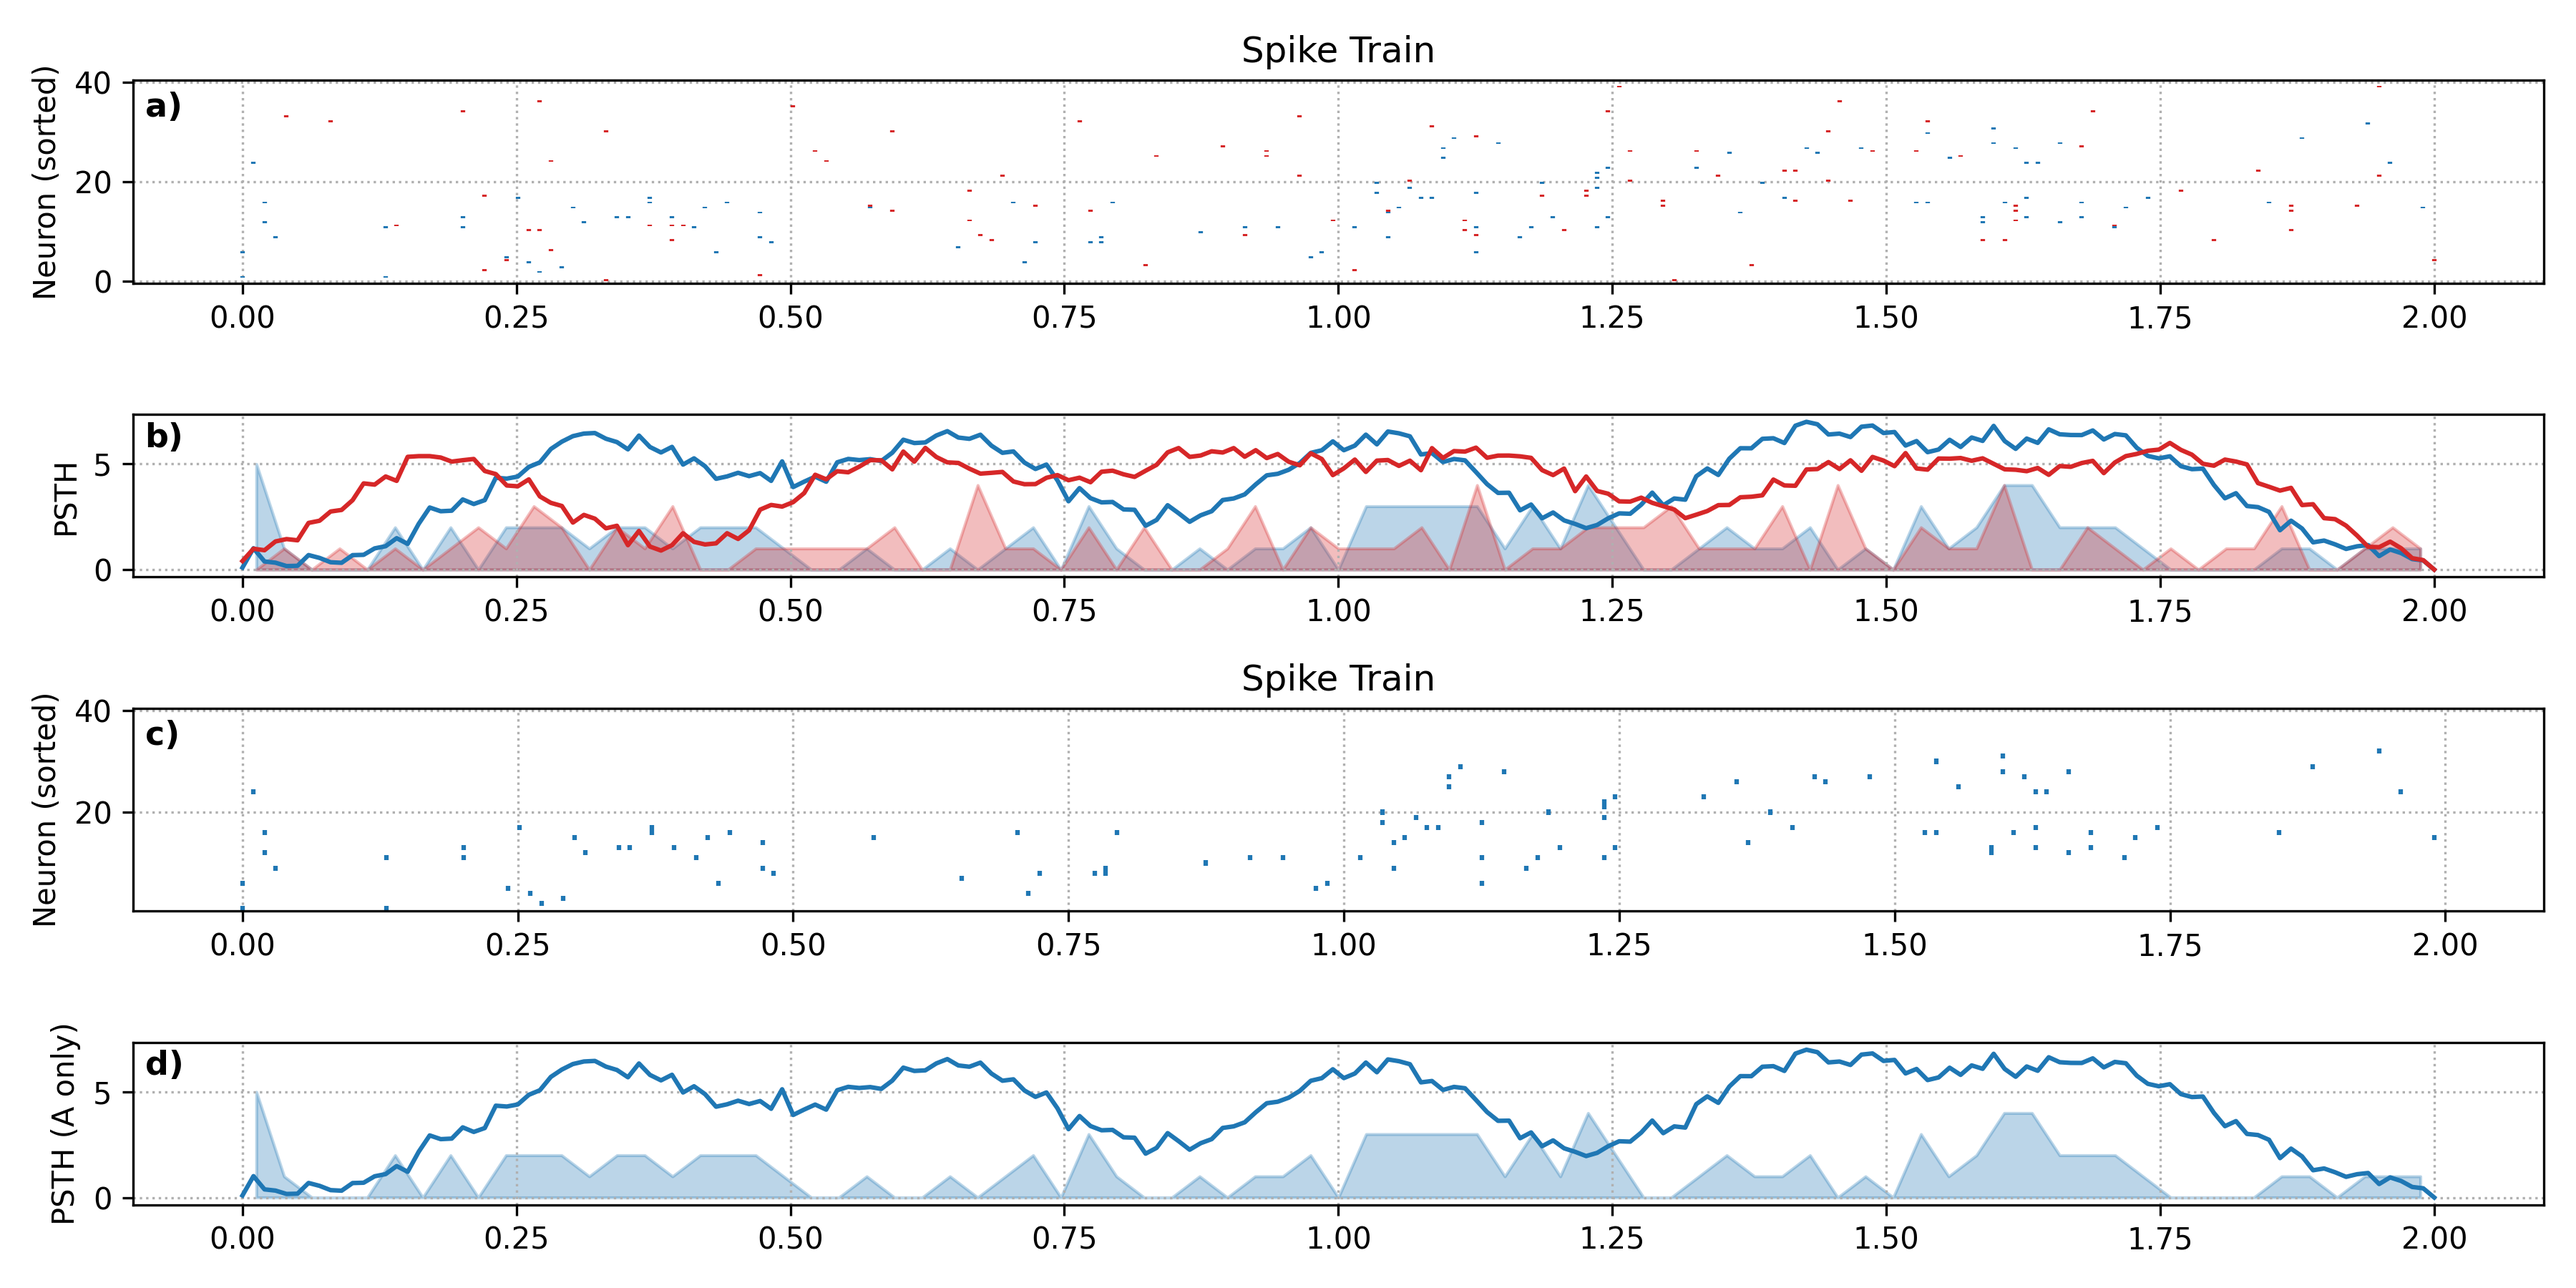
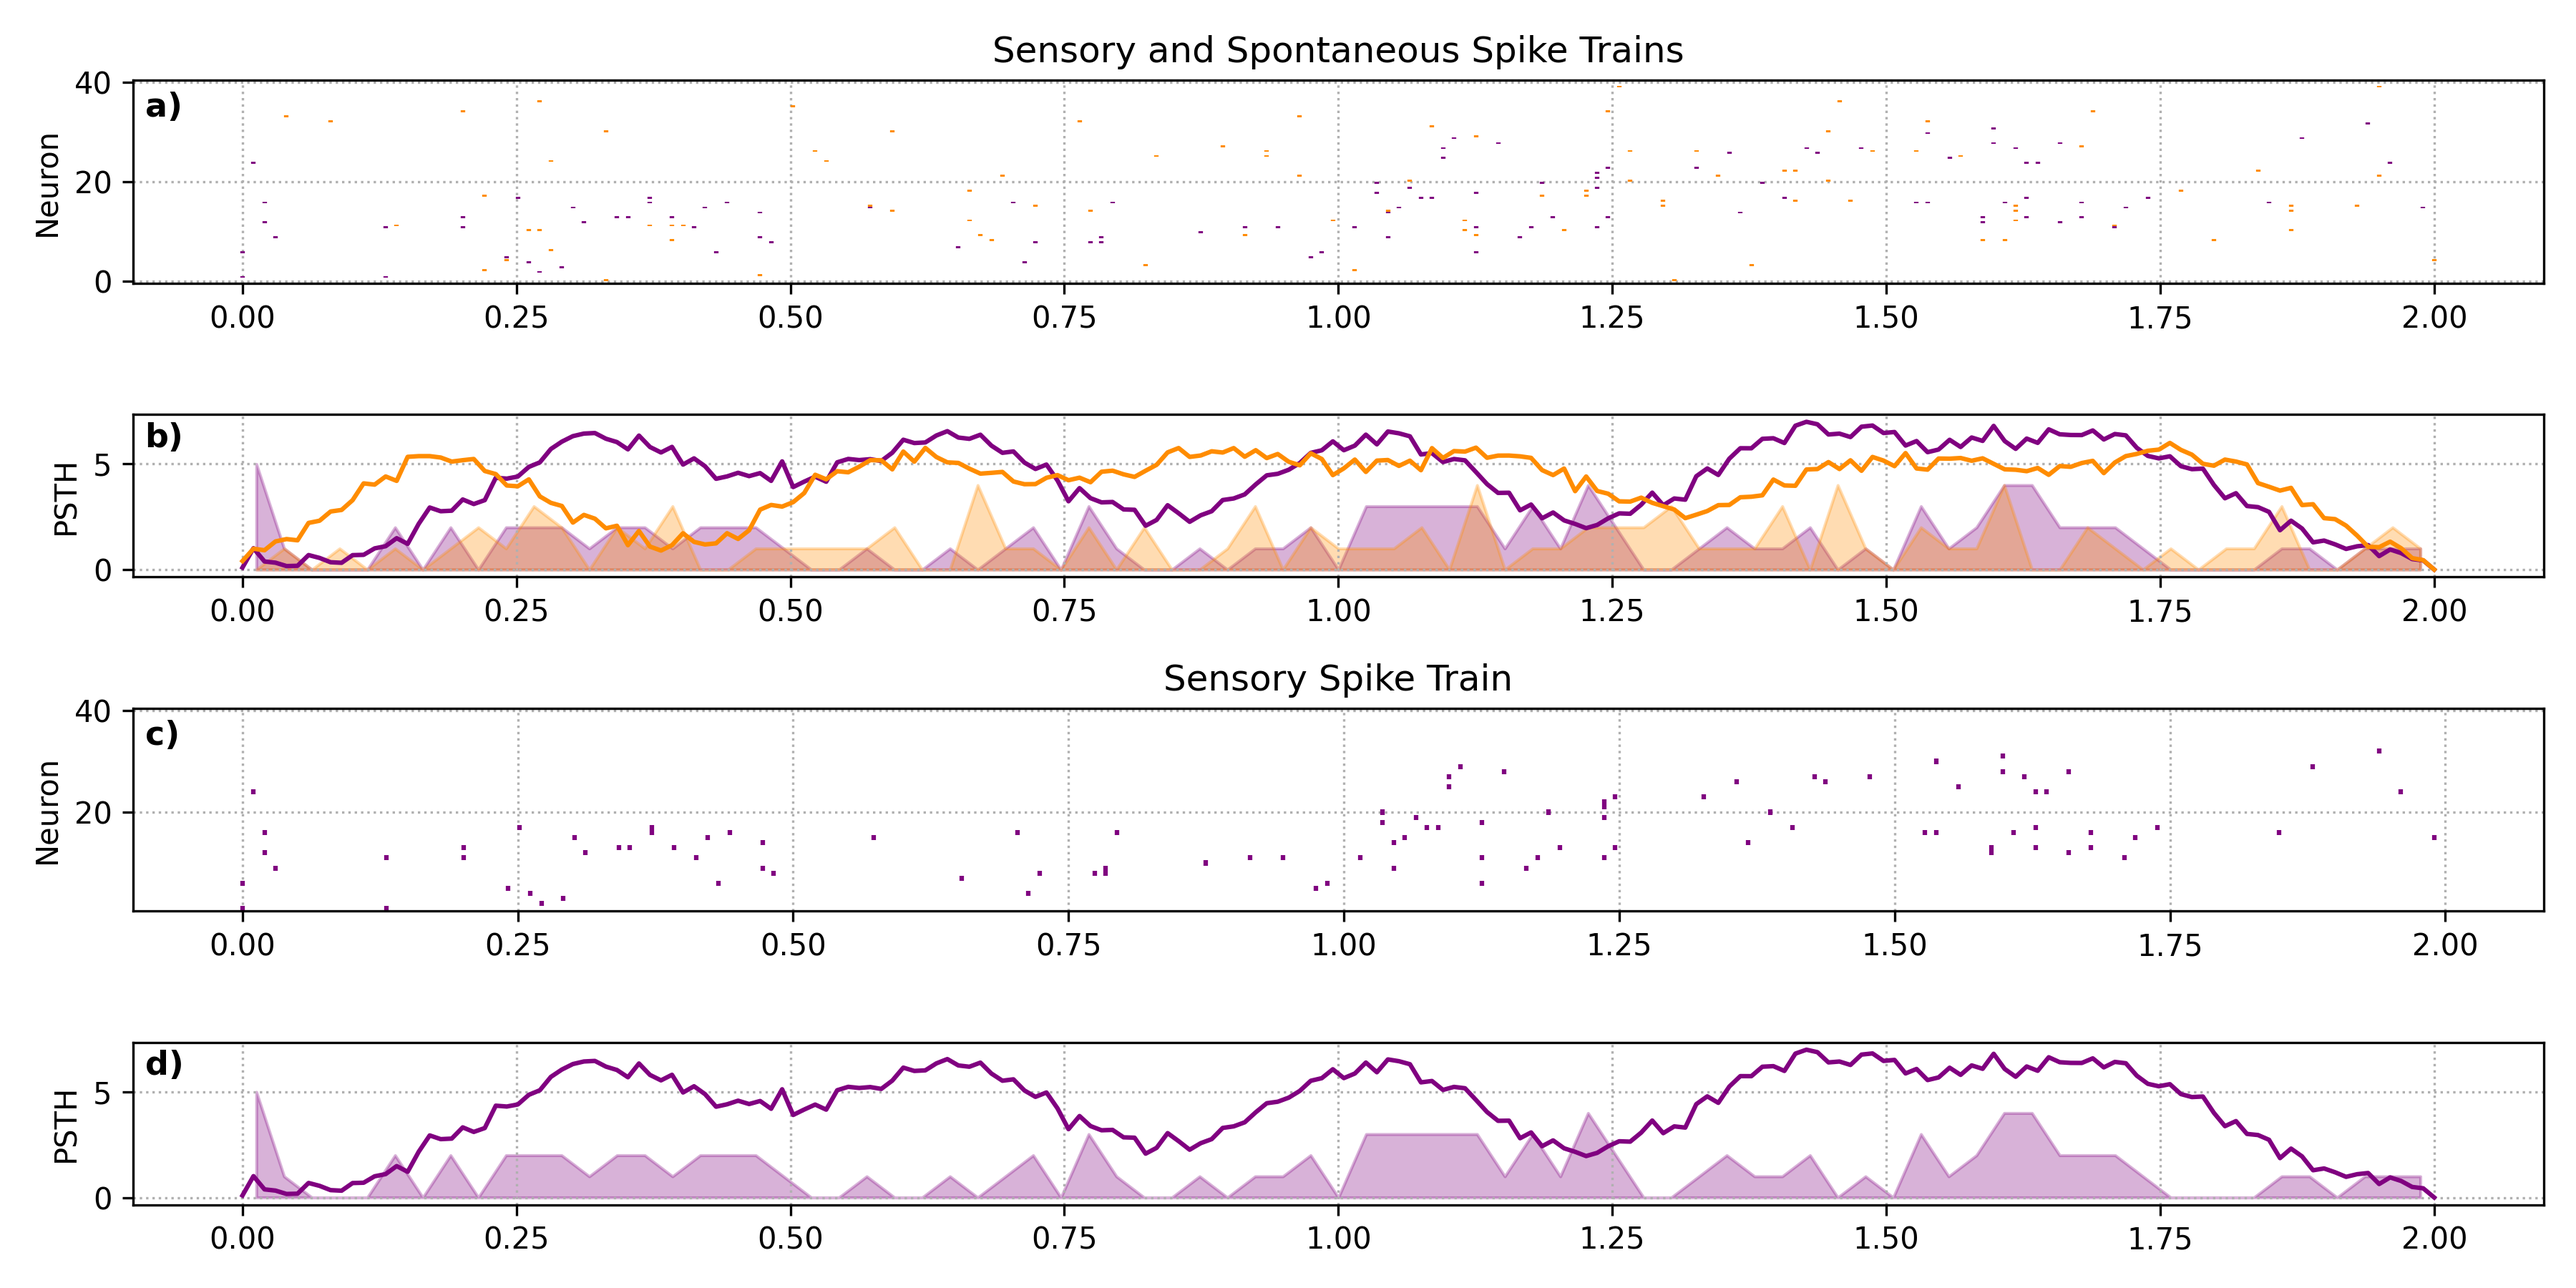
Update Plots

diff --git a/src/plot_domains.py b/src/plot_domains.py
@@ -1,68 +1,68 @@
 import numpy as np
 import matplotlib.pyplot as plt
 
-# --- Helper functions ---
+# -------- Generate biologically-inspired tuning curves --------
 
-def gaussian_tuning(x, mu, sigma=15, height=1.0):
-    """Gaussian tuning curve."""
-    return height * np.exp(-0.5 * ((x - mu) / sigma) ** 2)
+x = np.linspace(-3, 3, 400)
 
-def poisson_spikes(rate, T=1000, dt=1):
-    """Simulate Poisson spike trains for given rate (Hz)."""
-    n_steps = int(T / dt)
-    p_spike = rate * dt / 1000.0  # rate is in Hz, T in ms
-    return np.random.rand(n_steps) < p_spike
+# Gaussian tuning curve (neural selectivity peak)
+def gaussian(x, mu, sigma):
+    return np.exp(-0.5 * ((x - mu) / sigma)**2)
 
-# --- Setup stimulus space ---
-x = np.linspace(0, 180, 200)  # e.g. orientation in degrees
+tuning_curve = gaussian(x, 0, 0.8)
+enum = iter("abcdefg")
+# Mexican hat (difference-of-Gaussians: excitatory center, inhibitory surround)
+def mexican_hat(x, sigma_exc=0.5, sigma_inh=1.5, w_exc=1.0, w_inh=0.6):
+    exc = w_exc * np.exp(-0.5 * (x / sigma_exc)**2)
+    inh = w_inh * np.exp(-0.5 * (x / sigma_inh)**2)
+    return exc - inh
 
-# 1. Classical neuroscience: population of neurons with tuning curves
-neurons_pref = np.linspace(20, 160, 5)
-pop_curves = [gaussian_tuning(x, mu, sigma=20) for mu in neurons_pref]
+mex_curve = mexican_hat(x)
 
-# 2. Dynamic Field Theory: one continuous activation bump (represents population)
-dft_field = gaussian_tuning(x, 90, sigma=25, height=1.2)
+# Add slight noise for biological realism
+tuning_curve_noisy = tuning_curve + np.random.normal(0, 0.02, len(x))
+mex_curve_noisy = mex_curve + np.random.normal(0, 0.02, len(x))
 
-# 3. Deep learning population code (output layer representation)
-dl_outputs = [gaussian_tuning(x, mu, sigma=10, height=1.0) for mu in [60, 90, 120]]
-dl_code = np.sum(dl_outputs, axis=0)  # combined population output
+# -------- Plot --------
 
-# 4. Spiking Neural Networks: tuning via spike trains
-rates = [gaussian_tuning(90, mu, sigma=20, height=30) for mu in neurons_pref]
-spike_trains = [poisson_spikes(rate, T=500) for rate in rates]
-firing_rates = [np.mean(train) * 1000 for train in spike_trains]  # Hz
+fig, axes = plt.subplots(1, 2, figsize=(12, 4))
 
-# --- Plotting ---
-fig, axs = plt.subplots(2, 2, figsize=(12, 8))
+# Left: Gaussian tuning curve
+axes[0].plot(x, tuning_curve_noisy, color="orange", linewidth=2)
+axes[0].set_title("Gaussian Tuning Curve")
+axes[0].set_xlabel("Stimulus feature")
+axes[0].set_ylabel("Firing rate (a.u.)")
+axes[0].grid(True, linestyle=':', alpha=0.5)
+axes[0].text(
+    0.015,        # a little left of the axes
+    0.94,               # same vertical height as the title
+    f"{next(enum)})",
+    fontsize=11, fontweight="bold",
+    transform=axes[0].transAxes
+)
 
-# Classical neuroscience
-for curve, mu in zip(pop_curves, neurons_pref):
-    axs[0, 0].plot(x, curve, label=f"Neuron {int(mu)}°")
-axs[0, 0].set_title("a) Gaussian Tuning Curve")
-axs[0, 0].set_xlabel("Stimulus (orientation, °)")
-axs[0, 0].set_ylabel("Activity over time")
-axs[0, 0].legend()
-
-# Dynamic field theory
-axs[0, 1].plot(x, dft_field, color="darkred", lw=2)
-axs[0, 1].set_title("b) Field Activity")
-axs[0, 1].set_xlabel("Feature space (orientation, °)")
-axs[0, 1].set_ylabel("Activation")
-
-# Deep learning population code
-for out in dl_outputs:
-    axs[1, 0].plot(x, out, linestyle="--", alpha=0.7)
-axs[1, 0].plot(x, dl_code, color="blue", lw=2, label="Population code (sum)")
-axs[1, 0].set_title("c) Output Population Code")
-axs[1, 0].set_xlabel("Output dimension")
-axs[1, 0].set_ylabel("Activation")
-axs[1, 0].legend()
-
-# Spiking neural networks
-axs[1, 1].bar([f"{int(mu)}°" for mu in neurons_pref], firing_rates, color="gray")
-axs[1, 1].set_title("d) Estimated Tuning Curve")
-axs[1, 1].set_ylabel("Continuous Activity")
+# Right: Mexican Hat (center-surround receptive field)
+axes[1].plot(x, mex_curve_noisy, color="purple", linewidth=2)
+axes[1].axhline(0, color="black", linewidth=0.5)
+axes[1].set_title("Mexican Hat")
+axes[1].set_xlabel("Stimulus feature")
+axes[1].grid(True, linestyle=':', alpha=0.5)
+axes[1].text(
+    0.015,        # a little left of the axes
+    0.94,                # same vertical height as the title
+    f"{next(enum)})",
+    fontsize=11, fontweight="bold",
+    transform=axes[1].transAxes
+)
 
 plt.tight_layout()
-plt.savefig("population_code_domains.png")
-plt.close()
+
+fname = "population_code_domains.png"
+plt.savefig(fname, dpi=300)
+#
+
+
+
+# plt.tight_layout()
+# plt.savefig("population_code_domains.png")
+# plt.close()

diff --git a/src/plot_tuning.py b/src/plot_tuning.py
@@ -87,14 +87,27 @@ gs = fig.add_gridspec(4, 2, height_ratios=[1.25,1, 1.25,1])
 # ax3 = fig.add_subplot(gs[-1, 0])
 # ax4 = fig.add_subplot(gs[-1:, -1])
 
+# --------------------- Plotting ----------------------------
+        # "linear": {
+        #     "1.0": "darkorange",
+        #     "0.5": "#FFA447",
+        #     "0.0": "#FFE0B2",
+        # },
+        # "population": {
+        #     "0.0": "#E0AAFF",
+        #     "0.5": "#9A58D0",
+        #     "1.0": "purple",
+a_color = "purple"
+b_color = "darkorange"
+
 # Raster A+B
 ax_raster_all = fig.add_subplot(gs[0, :])
-ax_raster_all.set_title("Spike Train")
+ax_raster_all.set_title("Sensory and Spontaneous Spike Trains")
 for row, idx in enumerate(sorted_idx):
-    ax_raster_all.vlines(spike_trains_A[idx], row+0.6, row+1.0, color="tab:blue")
-    ax_raster_all.vlines(spike_trains_B[idx], row+0.0, row+0.4, color="tab:red")
+    ax_raster_all.vlines(spike_trains_A[idx], row+0.6, row+1.0, color=a_color)
+    ax_raster_all.vlines(spike_trains_B[idx], row+0.0, row+0.4, color=b_color)
 ax_raster_all.set_ylim(-0.5, n_neurons + 0.5)
-ax_raster_all.set_ylabel("Neuron (sorted)")
+ax_raster_all.set_ylabel("Neuron")
 ax_raster_all.grid(True, linestyle=':')
 ax_raster_all.text(
     0.005,        # a little left of the axes
@@ -115,10 +128,10 @@ hist_A, _ = np.histogram(all_spikes_A, bins=bin_edges)
 hist_B, _ = np.histogram(all_spikes_B, bins=bin_edges)
 
 ax_psth_all = fig.add_subplot(gs[1, :])
-ax_psth_all.fill_between(bin_centers, hist_A, color="tab:blue", alpha=0.3)
-ax_psth_all.fill_between(bin_centers, hist_B, color="tab:red", alpha=0.3)
-ax_psth_all.plot(t, pattern_A * (max(hist_A)+2) / max(pattern_A), color="tab:blue")
-ax_psth_all.plot(t, pattern_B * (max(hist_B)+2) / max(pattern_B), color="tab:red")
+ax_psth_all.fill_between(bin_centers, hist_A, color=a_color, alpha=0.3)
+ax_psth_all.fill_between(bin_centers, hist_B, color=b_color, alpha=0.3)
+ax_psth_all.plot(t, pattern_A * (max(hist_A)+2) / max(pattern_A), color=a_color)
+ax_psth_all.plot(t, pattern_B * (max(hist_B)+2) / max(pattern_B), color=b_color)
 ax_psth_all.set_ylabel("PSTH")
 ax_psth_all.grid(True, linestyle=':')
 ax_psth_all.text(
@@ -133,11 +146,11 @@ fig.add_subplot(gs[1, 1]).axis("off")
 
 # Raster A only
 ax_raster_A = fig.add_subplot(gs[2, :])
-ax_raster_A.set_title("Spike Train")
+ax_raster_A.set_title("Sensory Spike Train")
 for row, idx in enumerate(sorted_idx):
-    ax_raster_A.vlines(spike_trains_A[idx], row+0.5, row+1.5, color="tab:blue")
+    ax_raster_A.vlines(spike_trains_A[idx], row+0.5, row+1.5, color=a_color)
 ax_raster_A.set_ylim(0.5, n_neurons + 0.5)
-ax_raster_A.set_ylabel("Neuron (sorted)")
+ax_raster_A.set_ylabel("Neuron")
 ax_raster_A.grid(True, linestyle=':')
 ax_raster_A.text(
     0.005,        # a little left of the axes
@@ -152,9 +165,9 @@ fig.add_subplot(gs[2, 1]).axis("off")
 # PSTH A only
 hist_Aonly, _ = np.histogram(all_spikes_A, bins=bin_edges)
 ax_psth_A = fig.add_subplot(gs[3, :])
-ax_psth_A.fill_between(bin_centers, hist_Aonly, color="tab:blue", alpha=0.3)
-ax_psth_A.plot(t, pattern_A * (max(hist_Aonly)+2) / max(pattern_A), color="tab:blue")
-ax_psth_A.set_ylabel("PSTH (A only)")
+ax_psth_A.fill_between(bin_centers, hist_Aonly, color=a_color, alpha=0.3)
+ax_psth_A.plot(t, pattern_A * (max(hist_Aonly)+2) / max(pattern_A), color=a_color)
+ax_psth_A.set_ylabel("PSTH")
 ax_psth_A.grid(True, linestyle=':')
 ax_psth_A.text(
     0.005,        # a little left of the axes

diff --git a/src/plot_tuningspikes.py b/src/plot_tuningspikes.py
@@ -105,6 +105,17 @@ for i in range(n_neurons):
 sorted_idx = np.argsort(latencies)
 
 # --------------------- Plotting ----------------------------
+        # "linear": {
+        #     "1.0": "darkorange",
+        #     "0.5": "#FFA447",
+        #     "0.0": "#FFE0B2",
+        # },
+        # "population": {
+        #     "0.0": "#E0AAFF",
+        #     "0.5": "#9A58D0",
+        #     "1.0": "purple",
+a_color = "green"
+b_color = "#E0AAFF"
 
 fig, axes = plt.subplots(3, 2, figsize=(14, 12), gridspec_kw={"height_ratios": [2, 2, 2]})
 
@@ -122,8 +133,8 @@ ax4 = fig.add_subplot(gs[-1:, -1])
 #ax1, ax1b = axes[0]
 ax1.set_title("Spike Train")
 for row, idx in enumerate(sorted_idx):
-    ax1.vlines(spike_trains_A[idx], row+5.6, row+3.0, color="tab:blue")
-    ax1.vlines(spike_trains_B[idx], row+5.0, row+3.4, color="tab:red")
+    ax1.vlines(spike_trains_A[idx], row+5.6, row+3.0, color=a_color)
+    ax1.vlines(spike_trains_B[idx], row+5.0, row+3.4, color=b_color)
 ax1.set_ylim(-0.5, n_neurons + 0.5)
 ax1.set_ylabel("Neuron (sorted)")
 ax1.grid(True, linestyle=':')
@@ -133,24 +144,24 @@ ax1.grid(True, linestyle=':')
 #ax2, ax2b = axes[1]
 ax2.set_title("Spikes")
 for row, idx in enumerate(sorted_idx):
-    ax2.vlines(spike_trains_A[idx], row+5.5, row+3.4, color="tab:blue")
+    ax2.vlines(spike_trains_A[idx], row+5.5, row+3.4, color=a_color)
 ax2.set_ylim(0.5, n_neurons + 0.5)
 ax2.set_ylabel("Neuron (sorted)")
 ax2.grid(True, linestyle=':')
-#ax2b.axis("off")
+#ax2.axis("off")
 
 # Row 3: Activity Pattern A and B
 #sax3, ax4 = axes[2]
 
 # Pattern A
-ax3.plot(t, pattern_A, color="tab:blue")
+ax3.plot(t, pattern_A, color=a_color)
 ax3.set_title("Spike Pattern")
 ax3.set_ylabel("Activity")
 ax3.set_xlabel("Time (s)")
 ax3.grid(True, linestyle=':')
 
 # Pattern B
-ax4.plot(t, pattern_B, color="tab:red")
+ax4.plot(t, pattern_B, color=b_color)
 ax4.set_title("Spontaneous Activity")
 ax4.set_xlabel("Time (s)")
 ax4.grid(True, linestyle=':')
